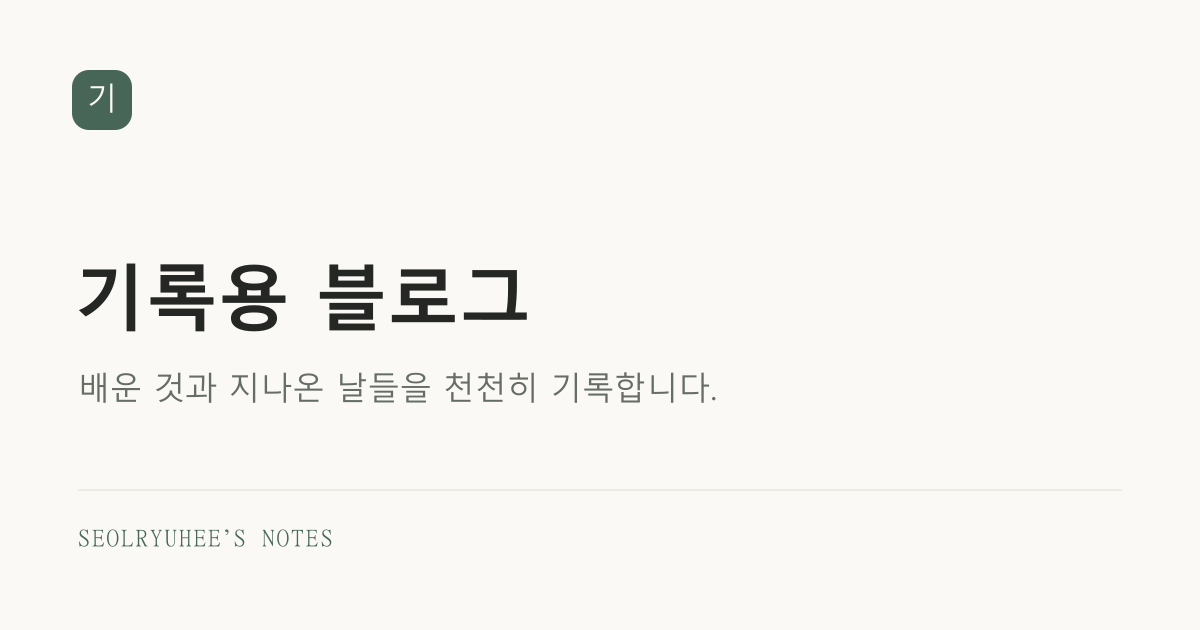
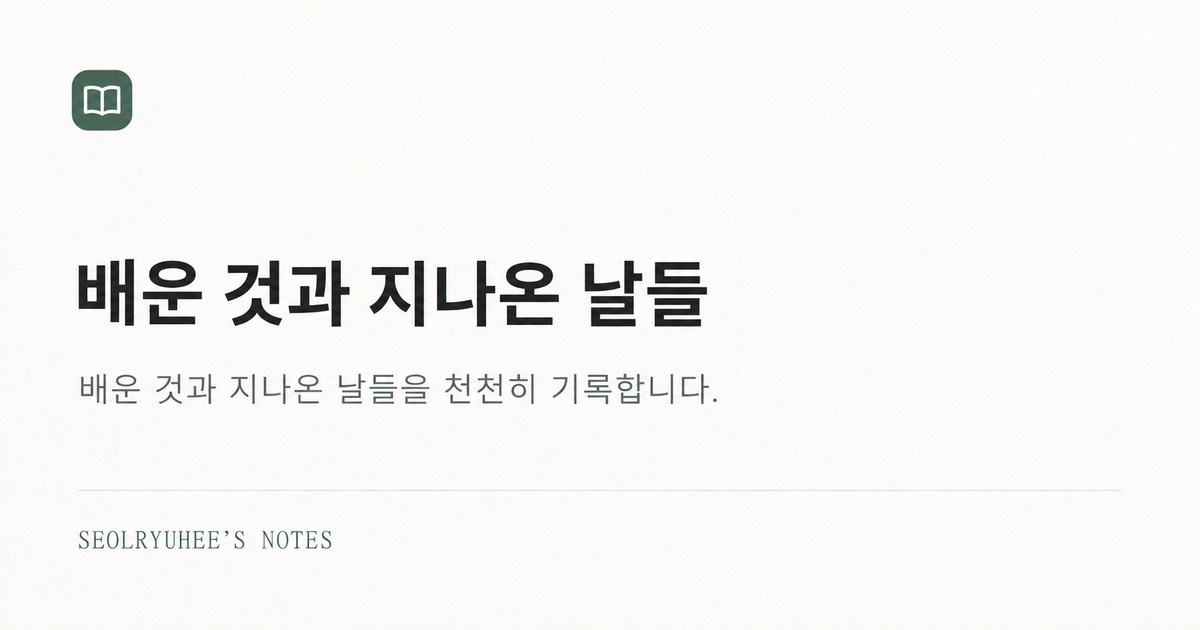
첫 기록 게시 및 블로그 이름과 디자인 정리

diff --git a/src/styles/global.css b/src/styles/global.css
@@ -9,7 +9,11 @@
 @media(max-width:600px){.site-header{margin:0 20px;padding:22px 0}.brand{font-size:16px;gap:9px}.site-header nav{gap:18px}.brand-mark{width:27px;height:29px}.home-intro{margin:0 20px;padding:56px 0 48px}.eyebrow{font-size:10px;margin-bottom:21px}.home-intro h1{font-size:30px;letter-spacing:-1.1px;line-height:1.5}.intro-copy{font-size:15px;margin-top:21px}.desktop-break{display:none}.intro-detail{font-size:11px;margin-top:25px}.recent-posts{margin:0 20px 60px}.section-heading>span{font-size:11px}.post-row{padding:25px 0}.post-row h3{font-size:21px}.post-row>p{font-size:14px}.site-footer{margin:0 20px;padding:24px 0;font-size:11px}.article-shell{padding:0 20px;margin:30px auto 55px}.draft-notice{margin-bottom:25px;font-size:11px}.article-header h1{font-size:30px;letter-spacing:-1px}.article-summary{font-size:17px}.article-header{margin-bottom:28px;padding-bottom:28px}.prose{font-size:17px}.prose h2{font-size:24px;margin-top:40px}.prose pre{padding-left:17px;padding-right:17px}.prose th,.prose td{padding:10px 13px}}
 @media(prefers-reduced-motion:reduce){html{scroll-behavior:auto}}
 
-.header-actions{display:flex;align-items:center;gap:28px}.menu-toggle{display:none}.site-footer>div{display:flex;gap:24px}.section-heading>a{font-size:12px;color:var(--muted)}.tag-list>a{color:var(--accent)}.tag-list>a:before{content:'#';opacity:.6;margin-right:3px}.post-meta>span>a+a{margin-left:10px}.preview-note{font-size:12px;line-height:1.8;color:var(--muted);margin:18px 0}.page-shell{max-width:880px;margin:70px auto 90px}.page-heading{padding-bottom:38px;border-bottom:1px solid var(--line);margin-bottom:24px}.page-heading h1{font-size:36px;font-weight:620;letter-spacing:-1.2px;line-height:1.4}.page-heading>p:not(.eyebrow){font-size:17px;line-height:1.8;color:var(--muted);margin-top:18px}.back-link{display:inline-block;font-size:14px;color:var(--muted);margin-bottom:25px}.about-page{max-width:720px}.about-page .prose{padding-top:15px}.tag-cloud{display:flex;flex-wrap:wrap;gap:14px;list-style:none;padding:16px 0;margin:0}.tag-cloud a{display:flex;align-items:center;gap:14px;border:1px solid var(--line);border-radius:6px;padding:12px 17px;font-size:15px}.tag-cloud span{font-size:12px;color:var(--muted)}#search-form{margin-top:32px}#search-form label{display:block;font-size:14px;margin-bottom:12px}.search-field{display:flex;gap:12px}.search-field input{min-width:0;flex:1;padding:15px 17px;font:inherit;border:1px solid var(--line);border-radius:6px;background:var(--bg);color:var(--text);font-size:16px}.search-field button{padding:12px 22px;border:0;border-radius:6px;background:var(--accent);color:var(--bg);cursor:pointer}.search-status{font-size:14px;color:var(--muted);margin:24px 0;line-height:1.8}.search-results{list-style:none;padding:0;margin:0}.search-results li{border-bottom:1px solid var(--line);padding:25px 0}.search-results h2{font-size:22px;font-weight:600;line-height:1.5}.search-results p{margin-top:12px;color:var(--muted);font-size:15px;line-height:1.8}
+.header-actions{display:flex;align-items:center;gap:28px}.menu-toggle{display:none}.section-heading>a{font-size:12px;color:var(--muted)}.tag-list>a{color:var(--accent)}.tag-list>a:before{content:'#';opacity:.6;margin-right:3px}.post-meta>span>a+a{margin-left:10px}.preview-note{font-size:12px;line-height:1.8;color:var(--muted);margin:18px 0}.page-shell{max-width:880px;margin:70px auto 90px}.page-heading{padding-bottom:38px;border-bottom:1px solid var(--line);margin-bottom:24px}.page-heading h1{font-size:36px;font-weight:620;letter-spacing:-1.2px;line-height:1.4}.page-heading>p:not(.eyebrow){font-size:17px;line-height:1.8;color:var(--muted);margin-top:18px}.back-link{display:inline-block;font-size:14px;color:var(--muted);margin-bottom:25px}.about-page{max-width:720px}.about-page .prose{padding-top:15px}.tag-cloud{display:flex;flex-wrap:wrap;gap:14px;list-style:none;padding:16px 0;margin:0}.tag-cloud a{display:flex;align-items:center;gap:14px;border:1px solid var(--line);border-radius:6px;padding:12px 17px;font-size:15px}.tag-cloud span{font-size:12px;color:var(--muted)}#search-form{margin-top:32px}#search-form label{display:block;font-size:14px;margin-bottom:12px}.search-field{display:flex;gap:12px}.search-field input{min-width:0;flex:1;padding:15px 17px;font:inherit;border:1px solid var(--line);border-radius:6px;background:var(--bg);color:var(--text);font-size:16px}.search-field button{padding:12px 22px;border:0;border-radius:6px;background:var(--accent);color:var(--bg);cursor:pointer}.search-status{font-size:14px;color:var(--muted);margin:24px 0;line-height:1.8}.search-results{list-style:none;padding:0;margin:0}.search-results li{border-bottom:1px solid var(--line);padding:25px 0}.search-results h2{font-size:22px;font-weight:600;line-height:1.5}.search-results p{margin-top:12px;color:var(--muted);font-size:15px;line-height:1.8}
 @media(max-width:1000px){.page-shell{margin:60px 40px 80px}.about-page{margin-left:auto;margin-right:auto;padding:0 40px}}
-@media(max-width:600px){.header-actions{gap:13px}.site-header{position:relative}.menu-toggle{display:block;border:0;background:none;color:var(--text);font-size:13px;cursor:pointer;padding:10px 5px}.site-header #site-nav{display:flex;flex-direction:column;align-items:stretch;gap:0;position:absolute;top:100%;left:0;right:0;padding:10px 16px;background:var(--bg);border:1px solid var(--line);border-radius:7px;z-index:5}.site-header #site-nav a{padding:13px 6px}.js .menu-toggle[aria-expanded=false]+#site-nav{display:none}.site-footer>div{gap:16px}.site-footer>div>span{display:none}.page-shell,.about-page{margin:40px 20px 60px;padding:0}.page-heading h1{font-size:30px}.page-heading>p:not(.eyebrow){font-size:16px}.page-heading{padding-bottom:30px}.search-field{gap:8px}.search-field button{padding:12px 17px}.search-results h2{font-size:20px}}
+@media(max-width:600px){.header-actions{gap:13px}.site-header{position:relative}.menu-toggle{display:block;border:0;background:none;color:var(--text);font-size:13px;cursor:pointer;padding:10px 5px}.site-header #site-nav{display:flex;flex-direction:column;align-items:stretch;gap:0;position:absolute;top:100%;left:0;right:0;padding:10px 16px;background:var(--bg);border:1px solid var(--line);border-radius:7px;z-index:5}.site-header #site-nav a{padding:13px 6px}.js .menu-toggle[aria-expanded=false]+#site-nav{display:none}.page-shell,.about-page{margin:40px 20px 60px;padding:0}.page-heading h1{font-size:30px}.page-heading>p:not(.eyebrow){font-size:16px}.page-heading{padding-bottom:30px}.search-field{gap:8px}.search-field button{padding:12px 17px}.search-results h2{font-size:20px}}
 @media(min-width:601px){.site-header #site-nav{display:flex!important}}
+
+/* Keep the full site name and article titles readable on narrow screens. */
+.site-header{gap:20px}.brand{min-width:0}.brand-mark{flex-shrink:0}.brand-mark svg{width:20px;height:20px;fill:none;stroke:currentColor;stroke-width:1.6;stroke-linecap:round;stroke-linejoin:round}.brand-title{min-width:0;overflow-wrap:anywhere;word-break:keep-all;line-height:1.5}.header-actions{flex-shrink:0}.article-header h1,.article-summary,.post-row h3{overflow-wrap:anywhere;word-break:keep-all}
+@media(max-width:600px){.site-header{gap:12px}}

diff --git a/docs/PLAN.md b/docs/PLAN.md
@@ -1,10 +1,10 @@
-# ‘기록용 블로그’ 설계·구현 계획
+# ‘배운 것과 지나온 날들’ 설계·구현 계획
 
-채택: 2026-10-06. 디자인·공개 배포 승인: 2026-10-20 사용자 지시. 현재 상태: 로컬 검증·원격 main 반영·GitHub Pages 공개 배포·실제 공개 사이트 검증 완료. 공개 글 0개, 샘플은 초안 유지.
+채택: 2026-10-06. 최초 공개 배포 승인: 2026-10-20. 2026-10-23 사용자가 첫 기록의 최종 원고와 전체 변경의 커밋·push·운영 배포를 승인함. 첫 기록을 공개 대상으로 지정하여 빌드 공개 글 1개, 샘플 초안 2개. 이번 배포는 정확한 게시 커밋의 Actions 성공과 실제 공개 글·검색·artifact 해시 검증을 모두 완료 기준으로 삼음. 과거 배포와 로컬 초안 검증 기록은 아래에 보존.
 
 ## 요구와 선택
 
-- 저장소 `seolryuhee/seolryuhee.github.io`, Git 이력, 이름 ‘기록용 블로그’, 주소 `https://seolryuhee.github.io` 유지.
+- 저장소 `seolryuhee/seolryuhee.github.io`, Git 이력, 주소 `https://seolryuhee.github.io` 유지. 사이트 이름은 2026-10-23 사용자 지시에 따라 ‘기록용 블로그’에서 ‘배운 것과 지나온 날들’로 변경하고, 최종 원고와 함께 공개 배포 승인.
 - 기존 Jekyll 구성·글 교체. 글 이전과 옛 상세 주소 유지는 하지 않으며 Git 이력으로 원본 보존.
 - Astro 정적 출력, Markdown 및 필요한 글의 MDX, 직접 만든 레이아웃·CSS. 생성기 자체 개발 제외.
 - 홈·전체 글·상세·소개·태그·Pagefind 검색·RSS·사이트맵·기본 검색/공유 메타데이터 제공.
@@ -149,6 +149,27 @@
 - 공개 글이 없으므로 공개 주소에서 양성 검색·게시글 본문 이미지·글 상세 읽기 동작은 검증할 대상이 없음. 이를 성공으로 간주하지 않으며, 로컬 격리 환경의 공개 글 3개 검색/MDX/이미지 검증과 구분함. 최초 실제 글 게시 후 공개 양성 검색/상세 검증 필요.
 - 증거: `.local/deployment/actions.log`, `before.json`, `live-report.json`, 공개 화면 스크린샷. 모두 Git 제외. 기존 MDX 지시문 빌드 경고는 남아 있으나 CI와 공개 검증 성공.
 - 최종 상태: **로컬 검증 완료 / 배포 설정·CI 실행 확인 완료 / 공개 사이트 확인 완료**. 게시 소스 workflow, 자동 push 배포는 활성화하지 않음.
+
+## 사이트 이름 변경과 첫 기록 초안 (2026-10-23, 로컬 전용)
+
+- 사용자 지시에 따라 사이트 이름을 ‘배운 것과 지나온 날들’로 변경. 머리글·꼬리글은 공통 `site.title`을 참조하고 브라우저 제목·OG/Twitter·RSS·공유 이미지에도 같은 이름 적용. 기존 색상·구성·‘기’ 표식 유지, 좁은 화면에서 이름과 글 제목 줄바꿈 허용.
+- 첫 글 ‘한영키를 누르기 싫어서 모드를 만들었습니다’를 `korean-ime-fix-mod` 주소에 작성. 날짜 2026-10-23, 부제 ‘Necesse 한글 입력 문제 해결기 — Korean IME Fix Mod’, 태그 프로그래밍/Necesse/모드, `draft: true`. 제공 원고의 23개 문단·명시적 줄바꿈 4개·굵은 강조 4개 유지. 괄호 다음 한글 조사가 붙는 두 강조 구문은 렌더링을 위해 `<strong>` 사용.
+- 콘텐츠 검증 3개(공개 0개), 단위 테스트 9개, 최종 빌드 HTML 6개 및 내부 링크·자산·RSS·사이트맵·검색 인덱스 검증 통과. 기존 Astro/MDX `use astro:head-inject` 경고는 유지.
+- Chrome 1440px/390px/320px × light/dark에서 홈·전체 글의 최신 기록, 상세 직접 접속·새로고침, 제목·부제·본문·초안/noindex, 메뉴 Enter/Escape·테마 전환·가로 넘침 및 머리글 겹침 검사 통과. 브라우저 오류 0건. 원고 문단과 렌더링 본문 대조 시 기존 스마트 따옴표 변환만 정규화.
+- 정적 결과물의 6개 HTML에서 새 이름 일치 및 첫 글 제목/주소 부재 확인. 글 상세 HTML 없음, RSS 항목·검색 인덱스 0개, 사이트맵에 첫 글 없음. 실제 정적 미리보기에서 첫 글 주소 HTTP 404, 홈·검색·RSS·사이트맵 HTTP 200 확인 후 정적 서버 종료.
+- 기존 통합 검증 15개 그룹·16개 검색 시나리오 통과. 공유 PNG의 새 이름을 시각 확인하고 최종 1200×630 크기 및 dist 복사본 일치 확인.
+- 증거: `.local/first-record-review/`의 dev-report.json, static-report.json, 로그·6가지 화면 스크린샷·공유 이미지 편집 프롬프트. 기존 통합 검증 결과는 `.local/final-review/report.json`. 모두 Git 제외.
+- 개발 서버 `http://127.0.0.1:4321/`는 계속 실행. 새 글은 `/posts/korean-ime-fix-mod/`에서 로컬 확인 가능. 기존 샘플 2개도 계속 초안. 커밋·push·원격 동기화·Actions 실행·Pages 설정 변경·공개 배포 없음. **로컬 검증 완료 / 업로드 명령 대기**.
+- 후속 디자인 수정: 사용자 요청으로 기존 ‘기’ 글자 표식을 펼친 책 선 아이콘으로 교체하고 머리글·SVG 파비콘·공유 PNG에 통일. 푸터의 오른쪽 반복 문구를 제거하여 왼쪽 사이트 이름·오른쪽 RSS만 표시. 불필요해진 푸터 div 스타일 제거. Chrome의 홈/글 상세/검색 × 1440px/390px/320px × light/dark 18개 화면 조합, 메뉴·테마·가로 넘침·머리글 겹침 검사 통과. 최종 빌드와 정적 초안 제외 검증 재통과. 증거는 `.local/brand-review/`의 UI 보고서·머리글/푸터 스크린샷·빌드 로그·공유 이미지 편집 프롬프트. 개발 서버와 업로드 대기 상태 유지.
+
+## 첫 기록 최종 원고 및 공개 배포 승인 (2026-10-23)
+
+- 이번 사용자 요청이 로컬 전용·업로드 대기 조건을 해제함. 제공된 최종 원고로 본문 교체, 1~7번 소제목과 Steam 링크 반영, 제목·부제·날짜·slug·태그 유지, 첫 글만 `draft: false`. 샘플 2개는 초안 유지.
+- 이번 대화의 Node 환경 안내, 사이트 이름, 책 아이콘·파비콘·공유 이미지, 중복 제거한 푸터를 함께 커밋·push하고 기존 수동 Pages 워크플로를 publish:true로 실행. 자동 push 배포와 Pages 설정은 변경하지 않음.
+- 통합 검증은 격리 복사본의 실제 글만 초안으로 전환하여 기존 공개 글 0개 시나리오를 유지하며 실제 원고의 게시 상태를 바꾸지 않음. 공개 검증은 게시글 상세·목차·Steam 링크·양성/음성 검색·결과 클릭·새로고침을 검사하도록 확장.
+- 공개 검증 검색어: 한영키/해결기/히라가나/Korean IME Fix Mod → 첫 글, 없는검색어123/Optional/산책 → 결과 없음. 실제 Pages 검증은 해당 Actions 실행에서 받은 github-pages artifact와 모든 공개 파일의 SHA-256 비교를 포함. 로컬 dist를 CI artifact 대신 사용하지 않음.
+- 실행 증거는 `.local/release-review/`와 `.local/deployment/`에 보관하고 최종 보고에 게시 커밋·Actions 실행·실제 글/검색 결과를 기록. 이 소스 문서는 실제 공개 검증 전에 성공을 선기록하지 않음.
+- 게시 전 로컬 검증 완료: 콘텐츠 3개(공개 1개·초안 2개), 단위 9개, 최종 빌드 HTML 10개, 격리 통합 15개 그룹·16개 검색 시나리오 통과. 실제 배포용 dist를 정적 미리보기로 열어 1440/390/320px × light/dark의 6개 환경에서 최종 원고 29개 문단·7개 소제목·강조·목차·Steam 링크·세 태그·메뉴·테마·검색 42회·결과 클릭·새로고침·샘플 404 확인. 브라우저 오류 0건, 정적 서버 종료. 격리 메타데이터 저장 시 YAML 날짜가 Date로 해석되지 않도록 문자열 따옴표를 유지하며, 실제 글은 공개 상태 유지 확인.
 
 ## 근거
 

diff --git a/src/content/posts/korean-ime-fix-mod/index.md b/src/content/posts/korean-ime-fix-mod/index.md
@@ -1,0 +1,80 @@
+---
+title: "한영키를 누르기 싫어서 모드를 만들었습니다"
+date: "2026-10-23"
+summary: "Necesse 한글 입력 문제 해결기 — Korean IME Fix Mod"
+slug: "korean-ime-fix-mod"
+draft: false
+tags: ["프로그래밍", "Necesse", "모드"]
+---
+
+첫 기록을 무엇으로 할지 고민하다가 이것으로 정했습니다.
+
+## 1. 문제 발견
+
+예전에 Steam 창작마당에 모드를 하나 업로드했습니다.
+
+Korean IME Fix Mod라는 이름의 모드죠.
+
+이름에서 알 수 있듯이 한글 입력 시 게임에서 발생하는 문제를 수정하는 모드입니다.
+
+Necesse라는 게임이 있는데 채팅을 치고 나면 항상 게임 단축키가 동작하지 않았습니다.
+
+그래서 매번 한영키를 눌러야 하는 불편함이 있었죠.
+
+## 2. 기존 해결 방법 조사
+
+슬슬 불편함을 느낄 때쯤에 커뮤니티를 돌아다니면서 이에 관한 모드를 찾아봤고요.
+
+이미 누군가가 저와 같이 불편함을 느껴서 이를 해결하는 방법을 올려놨습니다.
+
+## 3. 기존 해결 방법 적용 실패
+
+그리고 그걸 보고 문제가 해결됐으면 이 모드가 나왔을 리가 없겠죠.
+
+하라는 대로 다 했는데 안 되니까 슬슬 열받기 시작하더라고요.
+
+그래서 직접 모드를 만들기로 했습니다.
+
+## 4. 문제 분석 및 재정의
+
+지금 상황에서의 문제는 한글 입력 상태에선 게임 단축키가 동작하지 않는 것이죠.
+
+그럼 대충 게임에서 한글 자체를 인식하지 못한다기보다는 **문자 입력과 게임 조작에 필요한 키 입력을 처리하는 과정에 문제가 있는 것**이라고 생각할 수 있었습니다.
+
+그렇다고 한글 입력을 영어 입력으로 변환해서 단축키를 인식하게 만드는 식으로 해결하면 반쪽짜리 해결법인 건 불 보듯 뻔했습니다.
+
+## 5. 해결 방안 설계
+
+그럼 더 근본적인 해결법은 뭘까요?
+
+정말 간단합니다. **문자가 아니라 키 입력 이벤트 자체를 기준으로 게임 조작을 처리하게 만들면 되는 겁니다.**
+
+키보드로 W를 눌렀다고 가정해 봅시다.
+
+이때 화면에 어떤 문자가 입력되는 것과 실제로 W 키가 눌렸다는 사실은 서로 다른 문제입니다.
+
+일반적으로 키보드 입력은 키가 눌리거나 떼어질 때 발생하는 <strong>키 이벤트(Key Event)</strong>와 그 입력을 통해 생성되는 <strong>문자 입력(Character Input)</strong>으로 구분할 수 있습니다.
+
+한글 입력 상태에서는 W 키를 눌러도 'ㅈ'이라는 문자가 입력되지만, 게임 조작에서 중요한 것은 'ㅈ'이라는 문자가 아니라 W 키가 눌렸다는 사실이죠.
+
+그러니까 게임 조작에 필요한 입력을 문자 입력 결과에 의존하지 않고, 키가 눌리고 떼어지는 이벤트를 기준으로 처리하도록 만들면 되는 겁니다.
+
+물론 채팅창에서 문자를 입력하는 상황과 실제로 게임을 조작하는 상황은 구분해야겠죠.
+
+이렇게 하면 원리상 한글뿐 아니라 히라가나를 입력하는 일본어 환경처럼 다른 입력기를 사용하는 상황에서도 동일한 접근 방식을 적용할 수 있습니다.
+
+어떤 문자가 입력되느냐에 따라 게임 단축키가 영향을 받는 구조 자체를 피하는 것이니까요.
+
+## 6. AI를 활용한 모드 구현
+
+AI도 발달해서 코드를 일일이 작성하지 않아도 되고, 어차피 어떻게 해결하면 될지 이미 감은 잡았으니 실행만 하면 되는 상황이었습니다.
+
+그래서 이걸 바탕으로 AI에게 모드를 만들어달라고 했고, 역시나 문제없이 동작했습니다.
+
+완성한 모드는 이거고요. [Korean IME Fix Mod (Steam 창작마당)](https://steamcommunity.com/sharedfiles/filedetails/?id=3660423434)
+
+## 7. 적용 결과 및 결론
+
+이제 채팅을 치고 나서 매번 한영키를 누를 필요도 없어졌습니다.
+
+문제가 발생했을 땐 역시 문제 자체를 없애버리는 게 최고인 것 같습니다.
